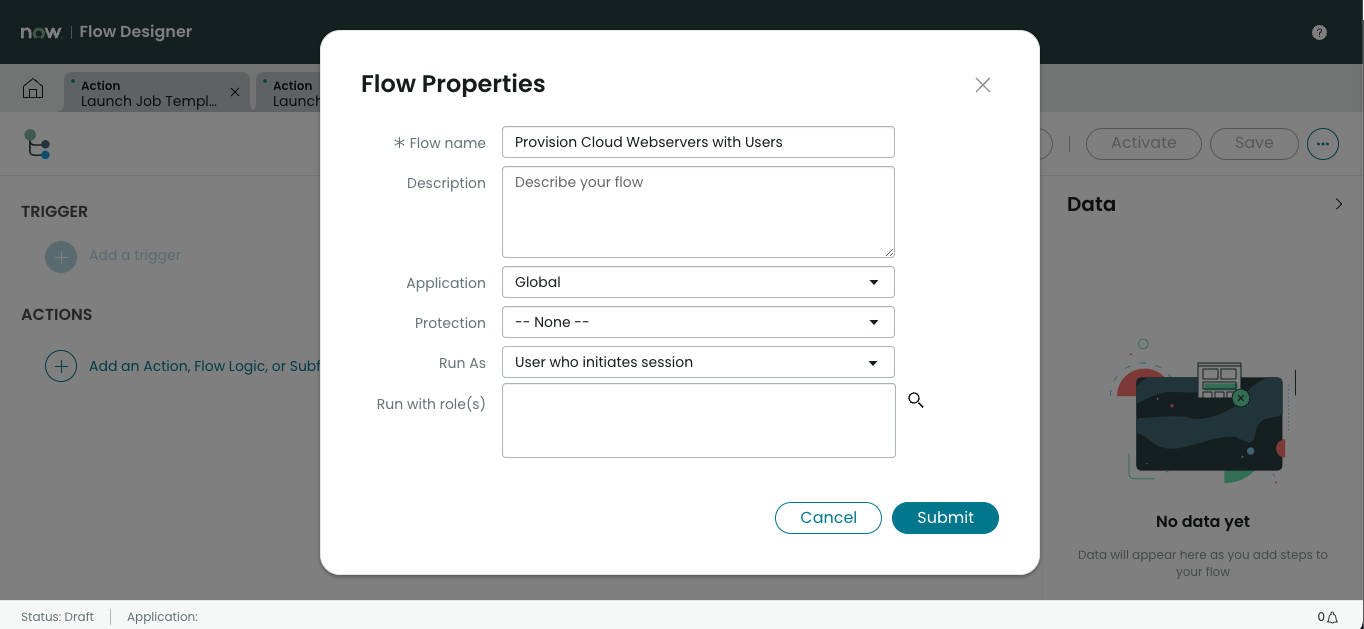
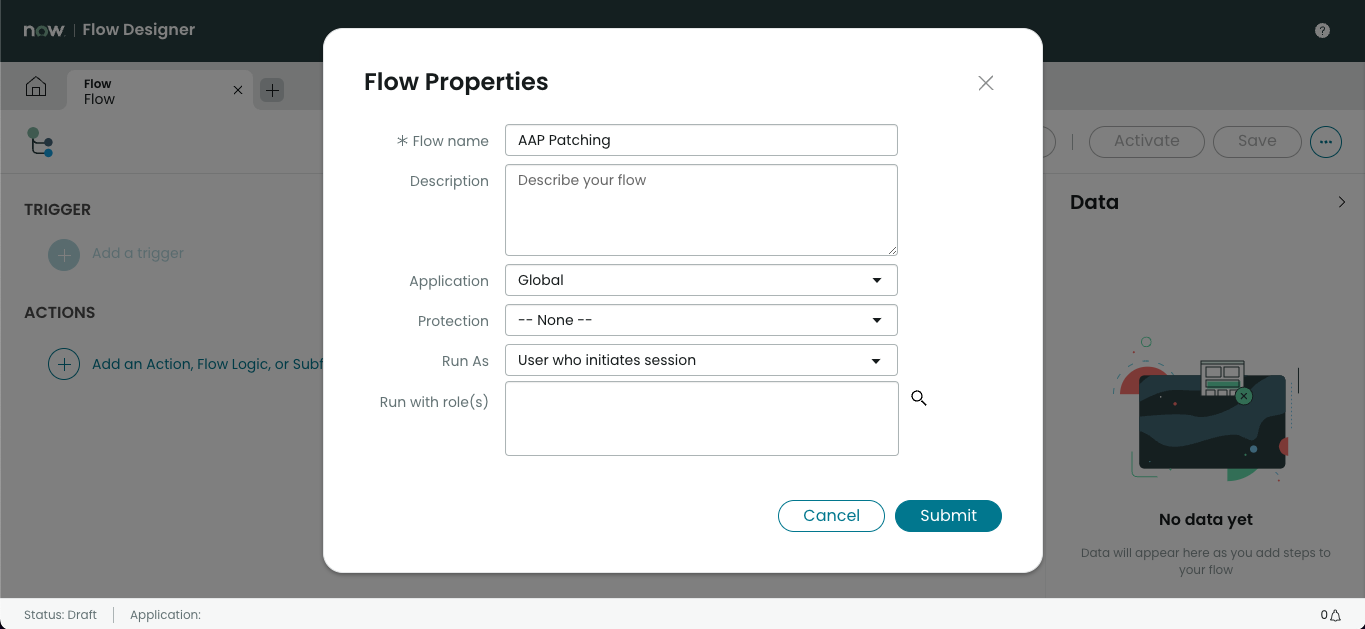
updated images

diff --git a/SNOW/readme.md b/SNOW/readme.md
@@ -433,7 +433,7 @@ Navigate to **Service Catalog-->Catalog Definitions->Maintain Items**. Click the
 
 | Parameter | Value |
 |-----|-----|
-| Name | `Provision Cloud Webservers with Users` |
+| Name | `AAP Ansible Spoke Patch` |
 | Catalog | The catalog that this item should be a part of |
 | Category | Required if you wish users to be able to search for this item |
 
@@ -446,39 +446,9 @@ Here are the fields required for each variable in this demo:
 ##### cloud_provider
 | Parameter | Value |
 |-----|-----|
-| Type | `Multiple Choice` |
-| Question | `Which Cloud provider to provision into?` |
-| Name | `cloud_provider` |
-| Default value | `aws` |
-
-###### variable options
-| Text | Value | Order |
-|-----|-----|-----|
-| `Amazon Web Services` | `aws` | `100` |
-| Google Cloud Platform | `gcp` | `200` |
-
-##### num_instances
-| Parameter | Value |
-|-----|-----|
 | Type | `Single Line Text` |
-| Question | `How many instances should be spun up? (Any value from 1 through 10)` |
-| Name | `num_instances` |
-| Default value | `3` |
-
-##### instance_size
-| Parameter | Value |
-|-----|-----|
-| Type | `Multiple Choice` |
-| Question | `What size instance should be selected?` |
-| Name | `instance_size` |
-| Default value | `small` |
-
-###### variable options
-| Text | Value | Order |
-|-----|-----|-----|
-| `small` | `small` | `100` |
-| `medium` | `medium` |  `200` |
-| `large` | `large` |  `300` |
+| Question | `What packages would you like to exclude?` |
+| Name | `exclude` |
 
 #### 17)
 Navigate to **Process Automation-->Flow Designer**
@@ -534,7 +504,7 @@ Go back to the Flow Designer home, click home in the top left. Click on the blue
 
 | Parameter | Value |
 |-----|-----|
-| Flow Name  | Provision Cloud Webservers with Users |
+| Flow Name  | AAP Patching |
 |  Application |  Global |
 
 Click on the blue **Submit** Button
@@ -585,7 +555,7 @@ Right-click inside the grey area at the top; click **Save**.
 #### 23)
 Lastly, to run this catalog item, navigate to **Self-Service-->Homepage** and search for the catalog item you just created. Once found, click the **order now** button. You can see the results page pop up in ServiceNow, and you can confirm that the Job is being run in AAP.
 
-<img src="images/catalog_order.png" alt="Catalog Item" title="Catalog Item" width="1000" />
+<img src="images/spoke_catalog.png" alt="Catalog Item" title="Catalog Item" width="1000" />
 
 Congratulations! After completing these steps, you can now use a ServiceNow Catalog Item to launch a Template in AAP using Ansible Spoke. This is ideal for allowing end users to use a front end they are familiar with in order to perform this, and other automated tasks of varying complexities. This goes a long way toward reducing the time to value for the enterprise as a whole, rather than just the teams responsible for writing the playbooks being used.
 
